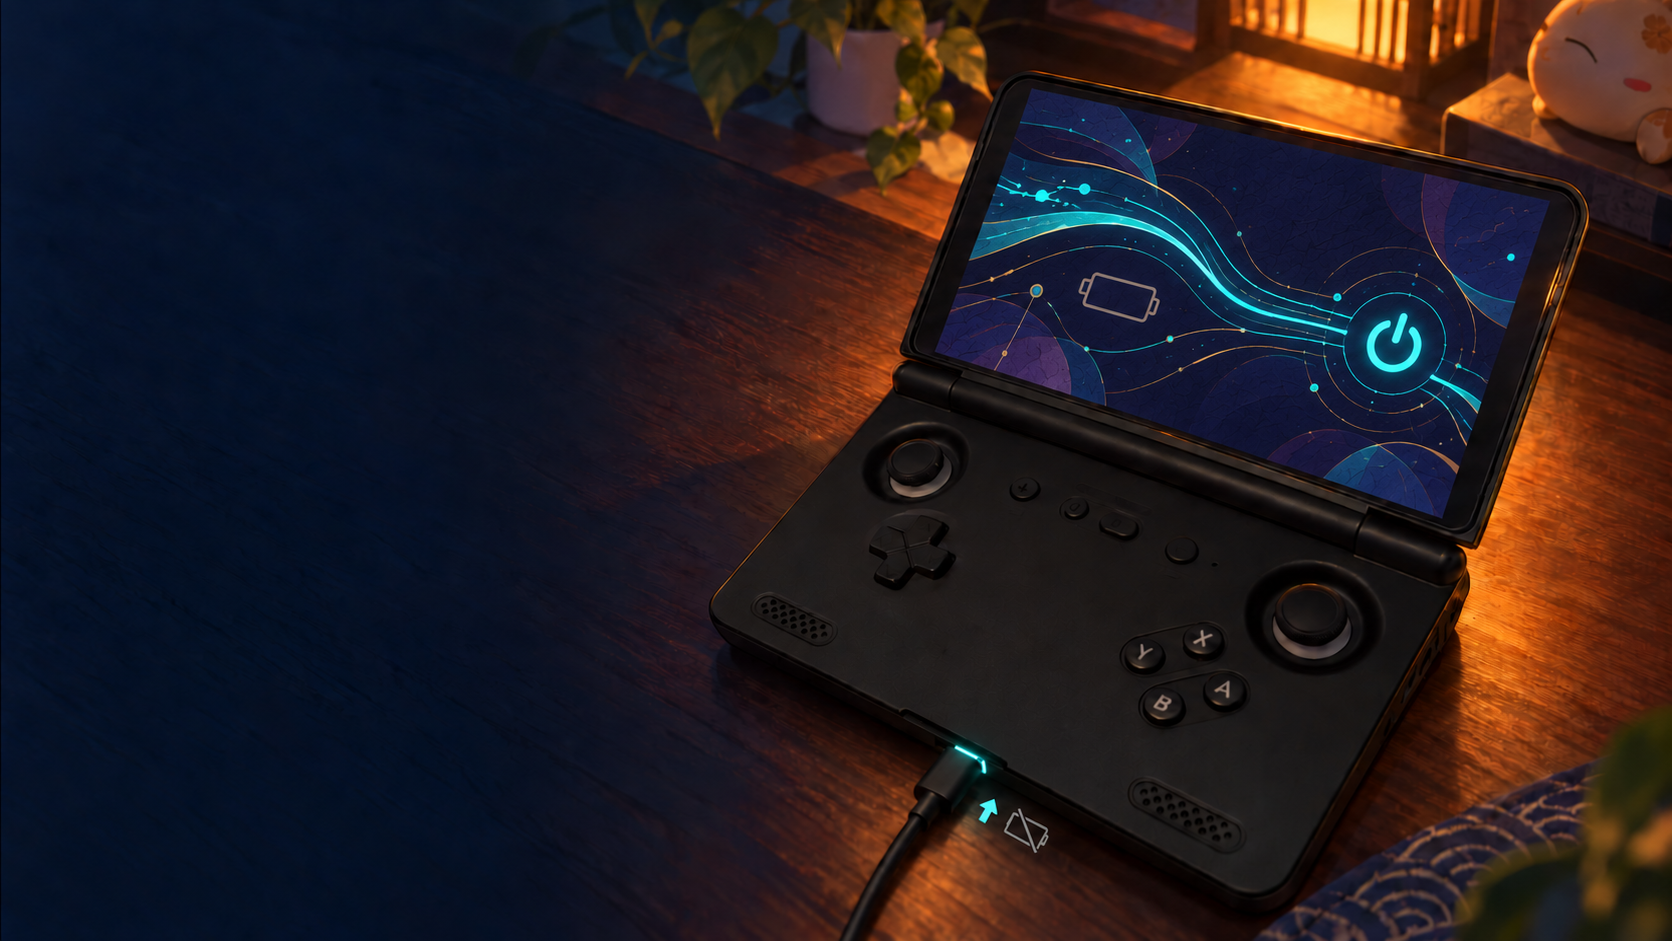
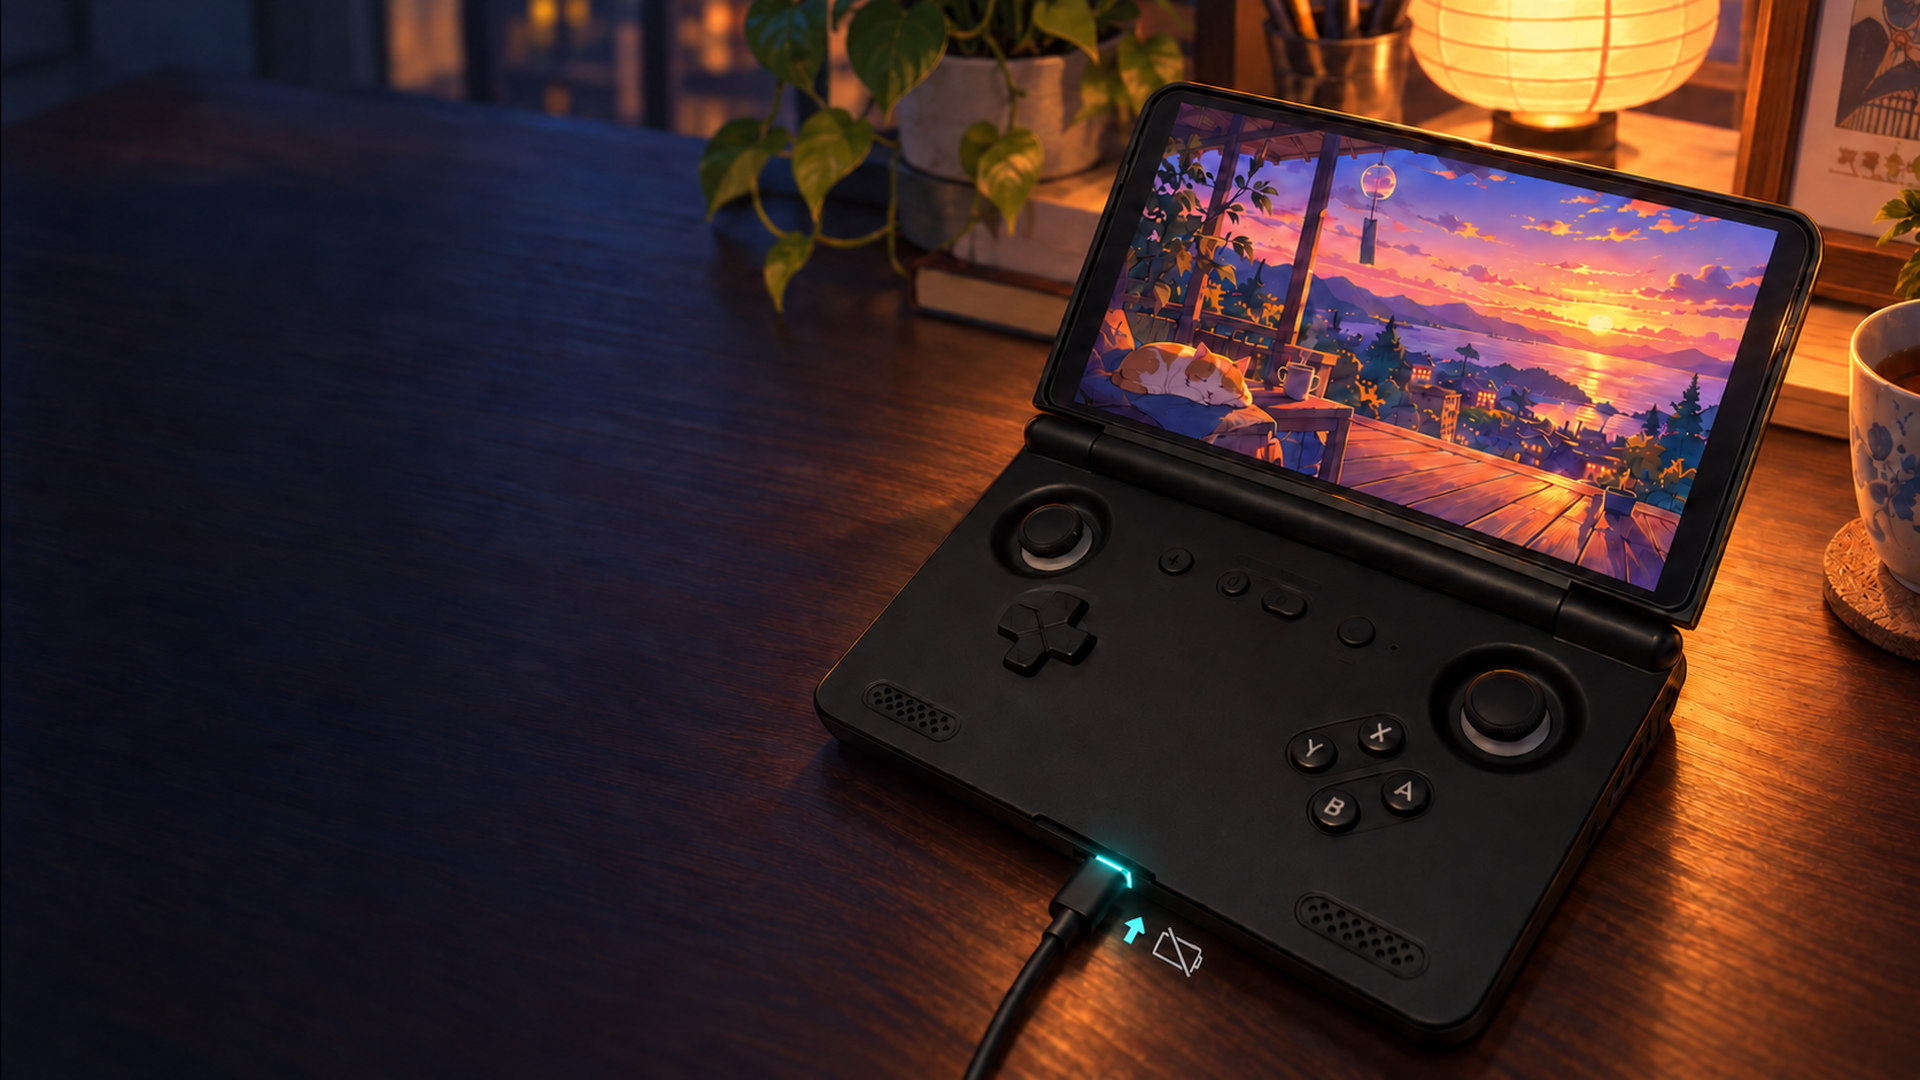
Release RP Charging Separation 1.4.0

diff --git a/src/com/jesty/rpchargingseparation/MainActivity.java b/src/com/jesty/rpchargingseparation/MainActivity.java
@@ -117,6 +117,18 @@ public final class MainActivity extends Activity {
         root.addView(scroll, new FrameLayout.LayoutParams(
                 panelWidth, ViewGroup.LayoutParams.MATCH_PARENT, Gravity.START));
 
+        LinearLayout topActions = buildTopActions();
+        FrameLayout.LayoutParams actionParams = new FrameLayout.LayoutParams(
+                ViewGroup.LayoutParams.WRAP_CONTENT, dp(42), Gravity.TOP | Gravity.END);
+        actionParams.setMargins(0, dp(16), dp(18), 0);
+        root.addView(topActions, actionParams);
+
+        LinearLayout openSourceBadge = buildOpenSourceBadge();
+        FrameLayout.LayoutParams badgeParams = new FrameLayout.LayoutParams(
+                ViewGroup.LayoutParams.WRAP_CONTENT, dp(50), Gravity.BOTTOM | Gravity.END);
+        badgeParams.setMargins(0, 0, dp(18), dp(16));
+        root.addView(openSourceBadge, badgeParams);
+
         LinearLayout content = new LinearLayout(this);
         content.setOrientation(LinearLayout.VERTICAL);
         int horizontal = dp(24);
@@ -174,52 +186,78 @@ public final class MainActivity extends Activity {
                 10f, Color.rgb(151, 143, 170), false);
         legend.setPadding(dp(4), dp(4), 0, 0);
         content.addView(legend);
-        content.addView(buildSupportFooter());
         return root;
     }
 
     private View buildHeader() {
         LinearLayout header = new LinearLayout(this);
         header.setOrientation(LinearLayout.HORIZONTAL);
-        header.setGravity(Gravity.CENTER_VERTICAL);
+        header.setGravity(Gravity.START | Gravity.CENTER_VERTICAL);
 
         ImageView lockup = new ImageView(this);
         lockup.setImageResource(R.drawable.jesty_rp_header_lockup);
         lockup.setScaleType(ImageView.ScaleType.FIT_START);
         lockup.setAdjustViewBounds(true);
         lockup.setContentDescription("Jesty RP Charging Separation");
-        header.addView(lockup, new LinearLayout.LayoutParams(dp(300), dp(76)));
+        header.addView(lockup, new LinearLayout.LayoutParams(dp(300), dp(100)));
 
-        header.setLayoutParams(new LinearLayout.LayoutParams(-1, dp(78)));
+        header.setLayoutParams(new LinearLayout.LayoutParams(-1, dp(102)));
         return header;
     }
 
-    private View buildSupportFooter() {
-        LinearLayout footer = panel();
-        TextView title = text("JESTY APPS ARE FREE & OPEN SOURCE", 10f, MUTED, true);
-        title.setLetterSpacing(0.07f);
-        footer.addView(title);
-        TextView copy = text("Support device testing or star the project.", 11f, Color.WHITE, false);
-        copy.setPadding(0, dp(3), 0, dp(4));
-        footer.addView(copy);
+    private LinearLayout buildTopActions() {
+        LinearLayout actions = new LinearLayout(this);
+        actions.setOrientation(LinearLayout.HORIZONTAL);
+        actions.setGravity(Gravity.CENTER_VERTICAL);
 
-        LinearLayout links = row();
-        TextView support = footerLink("☕  SUPPORT JESTY");
+        TextView support = topAction("\u2615  SUPPORT");
         support.setOnClickListener(v -> openExternal("https://buymeacoffee.com/jesty"));
-        links.addView(support, new LinearLayout.LayoutParams(0, dp(34), 1f));
-        TextView github = footerLink("★  STAR ON GITHUB");
+        actions.addView(support);
+
+        TextView github = topAction("\u2605  GITHUB");
         github.setOnClickListener(v -> openExternal(
                 "https://github.com/JestyLabs/Jesty-RP-Charging-Separation"));
-        links.addView(github, new LinearLayout.LayoutParams(0, dp(34), 1f));
-        footer.addView(links);
-        return footer;
+        LinearLayout.LayoutParams githubParams = new LinearLayout.LayoutParams(
+                ViewGroup.LayoutParams.WRAP_CONTENT, dp(38));
+        githubParams.setMargins(dp(8), 0, 0, 0);
+        actions.addView(github, githubParams);
+        return actions;
     }
 
-    private TextView footerLink(String label) {
-        TextView link = text(label, 10f, YELLOW, true);
-        link.setGravity(Gravity.CENTER_VERTICAL);
-        link.setPadding(dp(4), 0, dp(4), 0);
-        return link;
+    private TextView topAction(String label) {
+        TextView action = text(label, 10f, YELLOW, true);
+        action.setGravity(Gravity.CENTER);
+        action.setPadding(dp(14), 0, dp(14), 0);
+        GradientDrawable bubble = new GradientDrawable(
+                GradientDrawable.Orientation.LEFT_RIGHT,
+                new int[]{0xE0241338, 0xE0441B55});
+        bubble.setCornerRadius(dp(21));
+        bubble.setStroke(dp(1), 0xCCB15BFF);
+        action.setBackground(bubble);
+        action.setLayoutParams(new LinearLayout.LayoutParams(
+                ViewGroup.LayoutParams.WRAP_CONTENT, dp(38)));
+        return action;
+    }
+
+    private LinearLayout buildOpenSourceBadge() {
+        LinearLayout badge = new LinearLayout(this);
+        badge.setOrientation(LinearLayout.VERTICAL);
+        badge.setGravity(Gravity.CENTER);
+        badge.setPadding(dp(16), dp(5), dp(16), dp(5));
+        TextView copy = text("Support device testing or star the project.", 8f,
+                Color.rgb(205, 196, 218), false);
+        copy.setGravity(Gravity.CENTER);
+        badge.addView(copy);
+        TextView title = text("JESTY APPS ARE FREE & OPEN SOURCE", 9f, YELLOW, true);
+        title.setGravity(Gravity.CENTER);
+        title.setLetterSpacing(0.05f);
+        badge.addView(title);
+        GradientDrawable bubble = new GradientDrawable();
+        bubble.setColor(0xB5100B19);
+        bubble.setCornerRadius(dp(25));
+        bubble.setStroke(dp(1), 0x667B4AE2);
+        badge.setBackground(bubble);
+        return badge;
     }
 
     private void openExternal(String url) {

diff --git a/README.md b/README.md
@@ -21,7 +21,7 @@
 </p>
 
 <p align="center">
-  <a href="https://github.com/JestyLabs/Jesty-RP-Charging-Separation/releases/tag/v1.3.0"><strong>Download APK</strong></a>
+  <a href="https://github.com/JestyLabs/Jesty-RP-Charging-Separation/releases/tag/v1.4.0"><strong>Download APK</strong></a>
   · <a href="#what-does-it-do">How it works</a>
   · <a href="docs/BENCHMARKS.md">Measurements and raw data</a>
   · <a href="https://www.buymeacoffee.com/jesty">☕ Support development</a>
@@ -182,8 +182,8 @@ unrelated Android system properties.
 
 ## Installation
 
-1. Download `Jesty-RP-Charging-Separation-1.3.0.apk` from the
-   [GitHub release](https://github.com/JestyLabs/Jesty-RP-Charging-Separation/releases/tag/v1.3.0).
+1. Download `Jesty-RP-Charging-Separation-1.4.0.apk` from the
+   [GitHub release](https://github.com/JestyLabs/Jesty-RP-Charging-Separation/releases/tag/v1.4.0).
 2. Install and open **Jesty RP Charging Separation**.
 3. Connect a suitable USB charger.
 4. Enable **Charging Separation**.
@@ -293,5 +293,7 @@ device serial, account email or unreviewed log bundle.
 - Jesty name, mascot, wordmark, and project artwork: [ASSETS-LICENSE.md](ASSETS-LICENSE.md).
 - Third-party Android and Retroid names: [THIRD_PARTY_NOTICES.md](THIRD_PARTY_NOTICES.md).
 
-This project is not affiliated with or endorsed by Retroid. It was developed
-with disclosed generative-AI assistance under the maintainer's direction.
+This project is not affiliated with or endorsed by Retroid. Code,
+documentation, and visual assets were developed with disclosed generative-AI
+assistance under the maintainer's direction, supervision, review, and final
+approval.

diff --git a/docs/RELEASE-NOTES-1.4.0.md b/docs/RELEASE-NOTES-1.4.0.md
@@ -1,0 +1,32 @@
+# Jesty RP Charging Separation 1.4.0
+
+This update gives the app its final Jesty branding and approved device artwork
+without changing the charging-control path.
+
+## What changed
+
+- Added the final transparent Jesty RP Charging Separation lockup.
+- Added the approved separation and normal-charging dashboard artwork.
+- Kept the app lockup aligned to the left of the control panel.
+- Added compact Support and GitHub actions in the top-right corner.
+- Added the open-source message in the bottom-right, with the support line
+  first and the Jesty message in yellow.
+- Updated the charging-separation toggle to the yellow Jesty accent.
+- Expanded the AI-assistance disclosure to cover supervised code and visual
+  development.
+
+## What did not change
+
+The Retroid Binder control path, capability detection, battery/USB monitoring,
+safety fallback, boot restoration, and hardware charging logic are unchanged
+from 1.3.0.
+
+## Artifact
+
+- Version: `1.4.0` (`versionCode 15`)
+- APK: `Jesty-RP-Charging-Separation-1.4.0.apk`
[1 lines of base64/hex data omitted]
+- Signing certificate SHA-256:
[1 lines of base64/hex data omitted]
+
+No functionality is locked behind donations.

diff --git a/docs/LIVE-RESULTS.md b/docs/LIVE-RESULTS.md
@@ -32,3 +32,18 @@
 
 No pending item should be described as passed until a real-device run records
 the final state.
+
+## 1.4.0 artwork and dashboard candidate
+
+- Installed in place on the physical Retroid Pocket Flip 2 as
+  `versionCode=15`, `versionName=1.4.0`.
+- Normal charging showed positive battery flow and `Charging`.
+- Enabling separation changed Android to `Not charging`, with battery flow
+  approximately neutral while USB continued powering the device.
+- Disabling restored normal charging.
+- Swiping the app itself away from Recents kept the controller active.
+- The vendor **Clear all** action behaved like an Android force-stop on this
+  firmware and stopped the service; reopening the app allows it to start again.
+- The final signed rebuild only changes alignment, corner copy, and disclosure
+  text. Package identity was rechecked after installation; the full hardware
+  sequence was not repeated for those presentation-only changes.

diff --git a/docs/RELEASE-INTEGRITY.md b/docs/RELEASE-INTEGRITY.md
@@ -29,3 +29,21 @@ available.
    version code, and version name.
 5. Complete real-device validation with that exact signed APK.
 6. Attach the APK to a GitHub Release; do not commit it to Git history.
+
+## Stable 1.4.0 release
+
+- Package: `com.jesty.rpchargingseparation`
+- Version code: `15`
+- Version name: `1.4.0`
+- Debuggable: `false`
+- APK: `Jesty-RP-Charging-Separation-1.4.0.apk`
+- Signed APK SHA-256:
[1 lines of base64/hex data omitted]
+- Signing certificate SHA-256:
[1 lines of base64/hex data omitted]
+- Verified signing scheme: APK Signature Scheme v3.
+
+The signed 1.4.0 APK was installed in place on the physical Retroid Pocket
+Flip 2 and its package identity was confirmed. The charging-control path is
+unchanged from 1.3.0. The final rebuild differs from the exercised 1.4.0
+candidate only in header/badge presentation and disclosure copy.

diff --git a/assets/README.md b/assets/README.md
@@ -1,12 +1,13 @@
 # Application artwork
 
 The maintainer supplied the final 1920x1080 charging-state backgrounds and the
-transparent Jesty header wordmark on 2026-09-26.
+transparent Jesty project lockup on 2026-09-27.
 
 - `res/drawable-nodpi/jesty_rp_background.png`: charging separation confirmed.
 - `res/drawable-nodpi/jesty_rp_background_charging.png`: normal battery charging.
-- `res/drawable-nodpi/jesty_rp_wordmark.png`: exact transparent header wordmark.
-- `assets/branding/jesty_wordmark_header.png`: preserved branding source copy.
+- `res/drawable-nodpi/jesty_rp_header_lockup.png`: exact transparent app lockup.
+- `assets/branding/jesty_rp_header_lockup.png`: exact README lockup.
+- `assets/source/rp_header_lockup_source.png`: preserved source copy.
 
 The Activity chooses between the two backgrounds from confirmed runtime state;
 the artwork itself does not determine or claim that separation succeeded.

diff --git a/ASSETS-LICENSE.md b/ASSETS-LICENSE.md
@@ -12,12 +12,16 @@ The maintainer supplied the following final public-release artwork:
 
 - `res/drawable-nodpi/jesty_rp_background.png`
 - `res/drawable-nodpi/jesty_rp_background_charging.png`
-- `res/drawable-nodpi/jesty_rp_wordmark.png`
-- `assets/branding/jesty_wordmark_header.png`
+- `res/drawable-nodpi/jesty_rp_header_lockup.png`
 - `assets/branding/jesty_rp_header_lockup.png`
+- `assets/source/rp_header_lockup_source.png`
 
 The two backgrounds visualize charging separated and normal battery charging.
 They are not licensed under GPL-3.0 and may be displayed only when referring to
 the official project.
+
+The final visual compositions were supplied and approved by the maintainer and
+were created with generative-image assistance. They do not determine runtime
+state; the app switches artwork only after reading the device telemetry.
 
 Copyright 2026 Jesty. All rights reserved for branding and artwork.

diff --git a/AI_DISCLOSURE.md b/AI_DISCLOSURE.md
@@ -1,12 +1,12 @@
 # AI assistance disclosure
 
 This project was created with substantial generative-AI assistance under the
-maintainer's direction.
+maintainer's direction and supervision.
 
 AI tools helped draft and refine portions of the source code, build scripts,
 documentation, UI copy, visual concepts, and asset-processing workflow. The
-maintainer selected the behavior, reviewed the resulting files, and is
-responsible for release decisions.
+maintainer selected the behavior, supervised each iteration, reviewed the
+resulting code and visual output, and is responsible for release decisions.
 
 AI-generated output is not evidence that a privileged charging change is safe,
 compatible, or effective. Hardware claims in this repository must be backed by

diff --git a/CHANGELOG.md b/CHANGELOG.md
@@ -1,5 +1,18 @@
 # Changelog
 
+## 1.4.0
+
+- Added the final transparent Jesty RP Charging Separation lockup to the app
+  and README without checkerboard reconstruction.
+- Replaced both dashboard states with the maintainer-approved 1920x1080
+  separation/normal-charging artwork.
+- Corrected the header viewport to preserve the supplied 3:1 lockup ratio.
+- Kept the yellow brand tints and replaced unsupported footer glyphs with
+  reliable text-only links.
+- Preserved the Binder control path, capability checks, monitoring, safety
+  fallback, boot restoration, and hardware charging logic unchanged.
+- Bumped the stable update to versionCode 15 / versionName 1.4.0.
+
 ## 1.3.0
 
 - Prepared the first public Jesty source tree.
